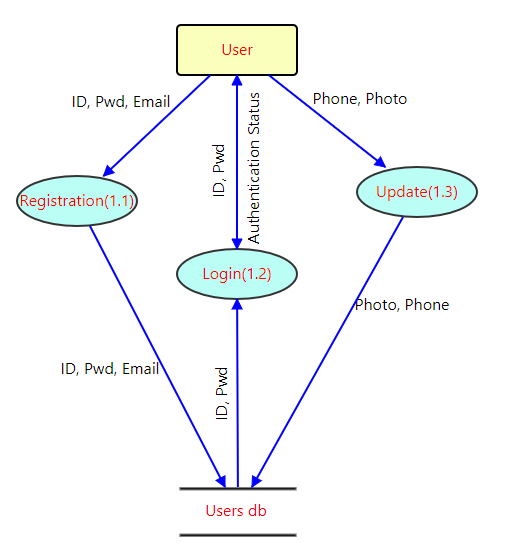
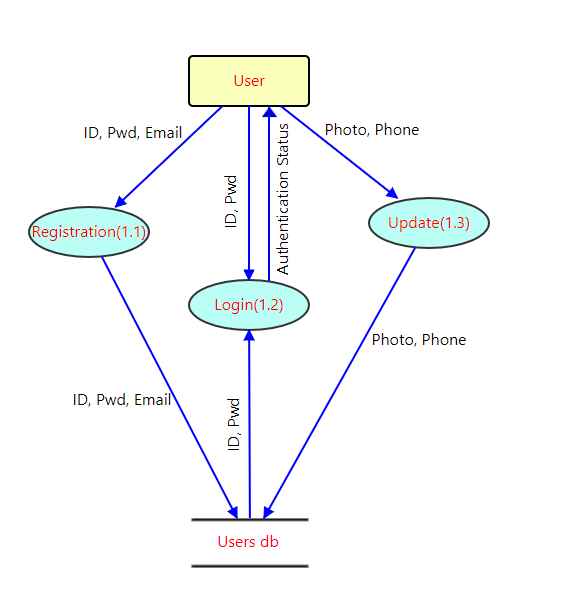
dfd

Changed region(s): [[0.0303, 0.0312, 0.9091, 1.0], [0.2121, 0.5, 0.2424, 0.5625], [0.6061, 0.2812, 0.6364, 0.3125]]

diff --git a/experiment/simulation/js/exercise2.js b/experiment/simulation/js/exercise2.js
@@ -648,7 +648,7 @@ dsl2.addTo(graph);
 
  var msg5 = new joint.shapes.standard.Rectangle();
         
-  msg5.position(204,185);
+  msg5.position(221,185);
   msg5.resize(100, 40);
   msg5.rotate(270);
   msg5.attr({
@@ -692,7 +692,7 @@ dsl2.addTo(graph);
 
  var msg7 = new joint.shapes.standard.Rectangle();
         
-  msg7.position(352,322);
+  msg7.position(357,326);
   msg7.resize(100, 40);
   //msg1.transform(90);
   msg7.attr({
@@ -709,7 +709,14 @@ dsl2.addTo(graph);
   });
  msg7.addTo(graph);
 
- 
+ var arrow = new joint.shapes.standard.Image();
+  arrow.resize(15, 12);
+  arrow.position(250,112);
+//actor1.position(103, 15);
+arrow.attr('root/title', 'joint.shapes.standard.BoarderedImage');
+
+arrow.attr('image/xlinkHref', 'images/arrowup.png');
+arrow.addTo(graph);
         
   /*joint.shapes.standard.Link.define('examples.CustomLink', {
     attrs: {
@@ -853,7 +860,14 @@ link2.addTo(graph);
                                   'type':'path',
                                    //strokeDasharray: '4 2',
                                   
-                                
+                                   targetMarker: { 
+                                    'stroke':'blue',
+                                    'type':'path',
+                                    'stroke-width': 2,
+                                    //'fill': 'blue',
+                                    'd':'M 0 -20  L 175 -20 L 2 -20  ',
+                                    //'d': 'M 50 -80 L 220 -80 V -80'
+                                }
                               }
                               });
 
